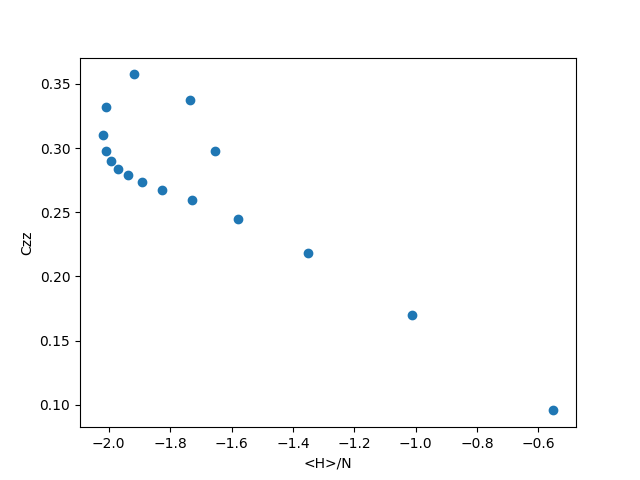
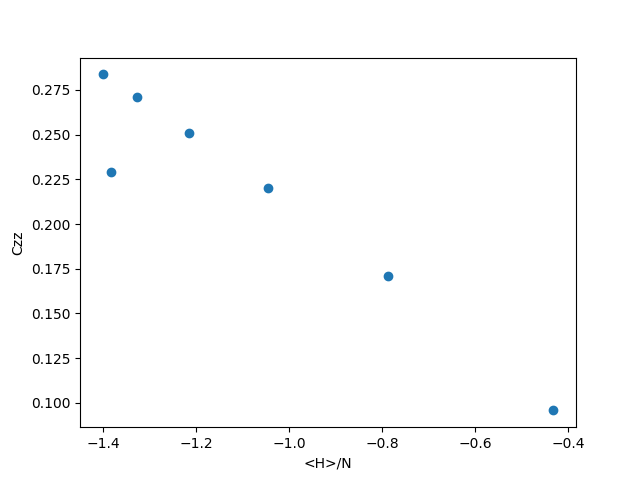
Checkpoint - Refactor

diff --git a/lattice_propagation.py b/lattice_propagation.py
@@ -10,13 +10,16 @@ from utils import _double_to_single_trace, _logmh, _normalise
 NUM_NEIGHBOURS = 6
 
 
-def checked_logmh_inv(msgs, ix0, ix1):
+def checked_logmh_inv(msgs, ix0, ix1, reg_factor=0.01):
     if 0 <= ix0 and ix0 < msgs.shape[0] \
             and 0 <= ix1 and ix1 < msgs.shape[1]:
+
         msg = msgs[ix0, ix1]
-        delta = 0.1 / msg
-        if jnp.linalg.cond(msg) > 10:
+        cond = jnp.linalg.cond(msg)
+        delta = reg_factor / msg
+        if cond > 0.1 / reg_factor:
             msg = msg + delta * jnp.eye(2)
+
         return _logmh(linalg.inv(msg))
     return jnp.zeros((2, 2), dtype=jnp.complex64)
 
@@ -33,12 +36,14 @@ class LatticeBeliefPropagator:
     TODO
     """
 
-    def __init__(self, lat_ham: LatticeHamiltonian):
+    def __init__(self, lat_ham: LatticeHamiltonian,
+                 reg_factor: jnp.float32 = 0.01):
         """
         TODO
         """
 
         self._lat_ham = lat_ham
+        self.reg_factor = reg_factor
         self.beliefs_row = jnp.zeros((lat_ham.numrows,
                                       lat_ham.numcols - 1,
                                       MATRIX_SIZE_DOUBLE,
@@ -138,41 +143,41 @@ class LatticeBeliefPropagator:
     def _compute_new_msg_up_row(self, r, c):
         return _normalise(linalg.expm(
             checked_logmh_trace(self.beliefs_row, r, c-1, 0) +
-            checked_logmh_inv(self._msg_down_row, r, c-1) +
+            checked_logmh_inv(self._msg_down_row, r, c-1, self.reg_factor) +
             checked_logmh_trace(self.beliefs_col, c, r-1, 0) +
-            checked_logmh_inv(self._msg_down_col, c, r-1) +
+            checked_logmh_inv(self._msg_down_col, c, r-1, self.reg_factor) +
             checked_logmh_trace(self.beliefs_col, c, r, 1) +
-            checked_logmh_inv(self._msg_up_col, c, r)
+            checked_logmh_inv(self._msg_up_col, c, r, self.reg_factor)
         ))
 
     def _compute_new_msg_down_row(self, r, c):
         return _normalise(linalg.expm(
             checked_logmh_trace(self.beliefs_row, r, c+1, 1) +
-            checked_logmh_inv(self._msg_up_row, r, c+1) +
+            checked_logmh_inv(self._msg_up_row, r, c+1, self.reg_factor) +
             checked_logmh_trace(self.beliefs_col, c+1, r, 1) +
-            checked_logmh_inv(self._msg_up_col, c+1, r) +
+            checked_logmh_inv(self._msg_up_col, c+1, r, self.reg_factor) +
             checked_logmh_trace(self.beliefs_col, c+1, r-1, 0) +
-            checked_logmh_inv(self._msg_down_col, c+1, r-1)
+            checked_logmh_inv(self._msg_down_col, c+1, r-1, self.reg_factor)
         ))
 
     def _compute_new_msg_up_col(self, c, r):
         return _normalise(linalg.expm(
             checked_logmh_trace(self.beliefs_col, c, r-1, 0) +
-            checked_logmh_inv(self._msg_down_col, c, r-1) +
+            checked_logmh_inv(self._msg_down_col, c, r-1, self.reg_factor) +
             checked_logmh_trace(self.beliefs_row, r, c-1, 0) +
-            checked_logmh_inv(self._msg_down_row, r, c-1) +
+            checked_logmh_inv(self._msg_down_row, r, c-1, self.reg_factor) +
             checked_logmh_trace(self.beliefs_row, r, c, 1) +
-            checked_logmh_inv(self._msg_up_row, r, c)
+            checked_logmh_inv(self._msg_up_row, r, c, self.reg_factor)
         ))
 
     def _compute_new_msg_down_col(self, c, r):
         return _normalise(linalg.expm(
             checked_logmh_trace(self.beliefs_col, c, r+1, 1) +
-            checked_logmh_inv(self._msg_up_col, c, r+1) +
+            checked_logmh_inv(self._msg_up_col, c, r+1, self.reg_factor) +
             checked_logmh_trace(self.beliefs_row, r+1, c, 1) +
-            checked_logmh_inv(self._msg_up_row, r+1, c) +
+            checked_logmh_inv(self._msg_up_row, r+1, c, self.reg_factor) +
             checked_logmh_trace(self.beliefs_row, r+1, c-1, 0) +
-            checked_logmh_inv(self._msg_down_row, r+1, c-1)
+            checked_logmh_inv(self._msg_down_row, r+1, c-1, self.reg_factor)
         ))
 
     def _compute_new_beliefs(self):

diff --git a/examples/n5x5.py b/examples/n5x5.py
@@ -9,44 +9,43 @@ from examples.example_utils import get_single_rho, trans_mag, \
 
 
 def main():
-    N = 10
-    Mx = []
-    Czz = []
-    HN = []
-    for reg_factor in [0.014]:
-        for beta in jnp.linspace(0.1, 2.0, 20, dtype=jnp.float32):
-            print(beta)
-            ham = ham_setup(N, beta, -2.5, -1.0)
-            bp = LatticeBeliefPropagator(ham, reg_factor)
-            for i in range(N * N):
-                print(i)
-                bp.step()
-            single_results = single_rho(bp, N)
-            Mx.append(trans_mag(single_results))
-            Czz.append((
-                correlation_spin_2d(bp.beliefs_row) +
-                correlation_spin_2d(bp.beliefs_col)) / 2)
-            HN.append((
-                energy_expectation(bp.beliefs_row, ham.hams_row, ham.beta) +
-                energy_expectation(bp.beliefs_col, ham.hams_col, ham.beta)
-            ) / 2)
+    N = 4
+    # Mx = []
+    # Czz = []
+    # HN = []
+    beta = 2.0
+    for reg_factor in [0.05]:
+        ham = ham_setup(N, beta, -2.5, -1.0)
+        bp = LatticeBeliefPropagator(ham, reg_factor)
+        for i in range(N * N):
+            print(i)
+            bp.step()
+        # single_results = single_rho(bp, N)
+        # Mx.append(trans_mag(single_results))
+        # Czz.append((
+        #     correlation_spin_2d(bp.beliefs_row) +
+        #     correlation_spin_2d(bp.beliefs_col)) / 2)
+        # HN.append((
+        #     energy_expectation(bp.beliefs_row, ham.hams_row, ham.beta) +
+        #     energy_expectation(bp.beliefs_col, ham.hams_col, ham.beta)
+        # ) / 2)
 
-        print(Mx)
-        print(Czz)
-        print(HN)
-        plt.scatter(HN, Mx)
-        plt.title(f"Transverse magnetisation for {N}x{N} system")
-        plt.xlabel("<H>/N")
-        plt.ylabel("Mx")
-        plt.savefig(f"examples/results/n{N}x{N}_Mx_{reg_factor}.png")
-        plt.clf()
-
-        plt.scatter(HN, Czz)
-        plt.title(f"Spin-spin correlation for {N}x{N} system")
-        plt.xlabel("<H>/N")
-        plt.ylabel("Czz")
-        plt.savefig(f"examples/results/n{N}x{N}_Czz_{reg_factor}.png")
-        plt.clf()
+    # print(Mx)
+    # print(Czz)
+    # print(HN)
+    # plt.scatter(HN, Mx)
+    # plt.title(f"Transverse magnetisation for {N}x{N} system")
+    # plt.xlabel("<H>/N")
+    # plt.ylabel("Mx")
+    # plt.savefig(f"examples/results/5x5/n{N}x{N}_Mx_{reg_factor}.png")
+    # plt.clf()
+    #
+    # plt.scatter(HN, Czz)
+    # plt.title(f"Spin-spin correlation for {N}x{N} system")
+    # plt.xlabel("<H>/N")
+    # plt.ylabel("Czz")
+    # plt.savefig(f"examples/results/5x5/n{N}x{N}_Czz_{reg_factor}.png")
+    # plt.clf()
 
 
 def ham_setup(N, beta, x_coef, zz_coef):

diff --git a/examples/2d/ldebug.py b/examples/2d/ldebug.py
@@ -18,7 +18,9 @@ def main():
 
     errors = []
 
-    for beta in [2]:
+    beta = 2.0
+    space = jnp.linspace(0.01, 0.1, 10)
+    for reg_factor in space:
         lat_ham = LatticeHamiltonian(3, 3, beta)
         for r in range(size):
             for c in range(size):
@@ -40,7 +42,7 @@ def main():
             for c in range(size):
                 exact_sol = exact_sol.at[r, c].set(rdm(rho, 1, r * size + c))
 
-        propagator = LatticeBeliefPropagator(lat_ham)
+        propagator = LatticeBeliefPropagator(lat_ham, reg_factor)
         for i in range(size * size):
             propagator.step()
             total_error = 0.0
@@ -51,13 +53,14 @@ def main():
                         exact_sol[r, c]
                     )
         print(total_error / (size * size))
-        # errors.append(total_error / (size * size))
+        errors.append(total_error / (size * size))
 
-    # plt.plot(space, errors)
-    # plt.xlabel("beta")
-    # plt.ylabel("average norm of error")
-    # plt.title("Error against exact solution in 3x3 matrices by beta value")
-    # plt.savefig("examples/results/error_3x3_capped.png")
+    plt.plot(space, errors)
+    plt.xlabel("Regularisation factor")
+    plt.ylabel("Average norm of error")
+    plt.title("Error against exact solution in 3x3 matrices by " +
+              "regularisation factor")
+    plt.savefig("examples/results/error_3x3_by_reg_scalar.png")
 
 
 if __name__ == "__main__":

diff --git a/examples/2d/lattice2.py b/examples/2d/lattice2.py
@@ -14,10 +14,10 @@ if __name__ == "__main__":
     x_coef = -3
     zz_coef = -1
     size = 2
-    # errors = []
-    # space = jnp.linspace(0, 7, 100, dtype=jnp.float32)
+    errors = []
+    space = jnp.linspace(0, 10, 100, dtype=jnp.float32)
 
-    for beta in [1.0]:
+    for beta in space:
         lat_ham = LatticeHamiltonian(size, size, beta)
         for r in range(size):
             for c in range(size):
@@ -49,11 +49,10 @@ if __name__ == "__main__":
                         propagator.mean_single_belief(r, c) -
                         exact_sol[r, c]
                     )
-        print(total_error / (size * size))
-        # errors.append(total_error / (size * size))
+        errors.append(total_error / (size * size))
 
-    # plt.plot(space, errors)
-    # plt.xlabel("beta")
-    # plt.ylabel("average norm of error")
-    # plt.title("Error against exact solution in 2x2 matrices by beta value")
-    # plt.savefig("examples/results/error_2x2_capped.png")
+    plt.plot(space, errors)
+    plt.xlabel("beta")
+    plt.ylabel("average norm of error")
+    plt.title("Error against exact solution in 2x2 matrices by beta value")
+    plt.savefig("examples/results/error_2x2_regularised_optim.png")

diff --git a/utils.py b/utils.py
@@ -88,7 +88,7 @@ def _logmh(rho: jax.typing.ArrayLike) -> Array:
 
 def _random_normalised_hermitian(
         size: jnp.int32, key: jax.typing.ArrayLike) -> (Array, Array):
-    factor = 2
+    factor = 3
     real_key, imag_key = random.split(key)
     real = random.uniform(real_key, (size, size))
     imag = random.uniform(imag_key, (size, size))

diff --git a/examples/2d/lattice.py b/examples/2d/lattice.py
@@ -56,4 +56,4 @@ if __name__ == "__main__":
     plt.xlabel("beta")
     plt.ylabel("average norm of error")
     plt.title("Error against exact solution in 3x3 matrices by beta value")
-    plt.savefig("examples/results/error_3x3_regularised.png")
+    plt.savefig("examples/results/error_3x3_regularised_optim.png")
